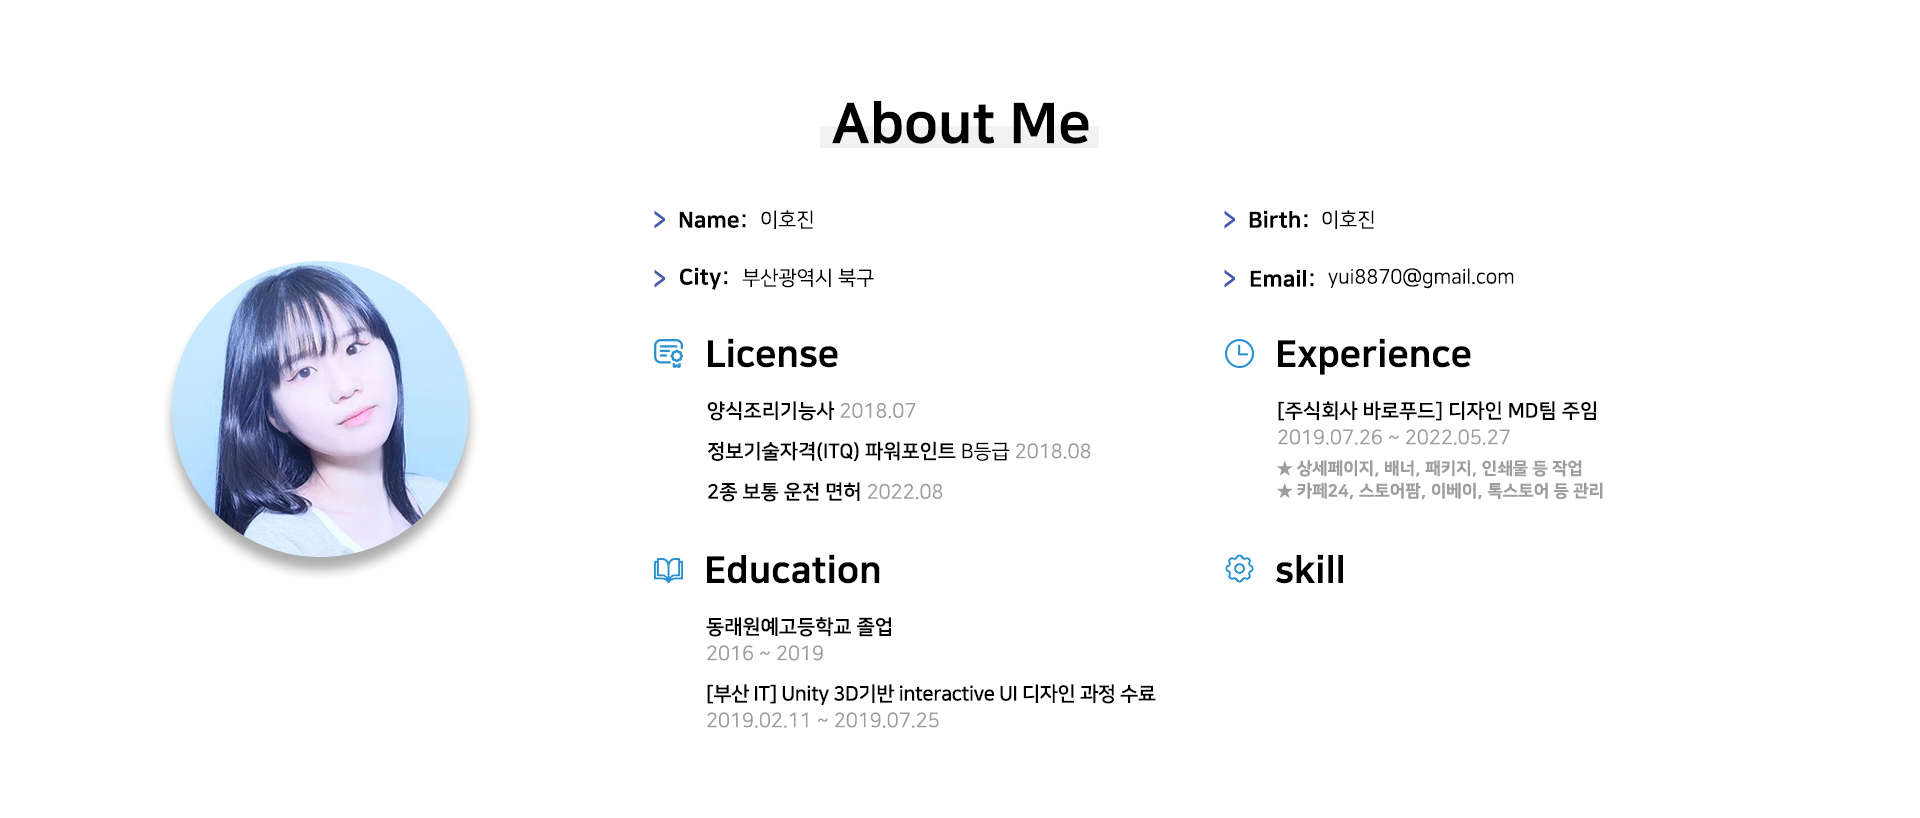
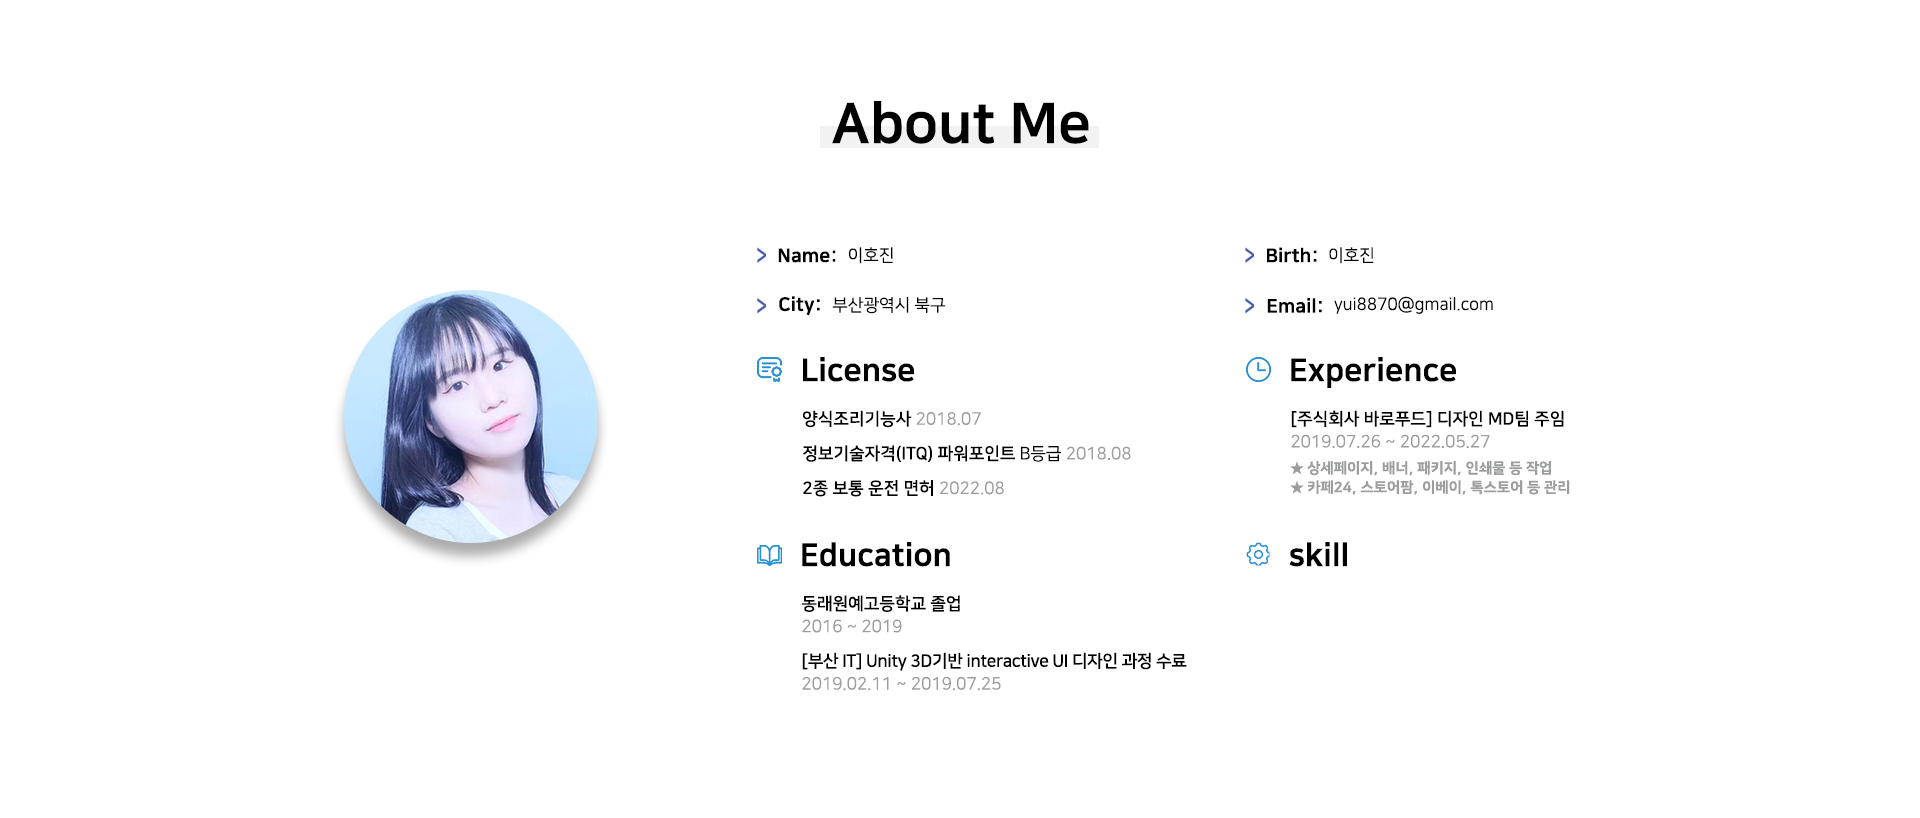
20220912

diff --git a/css/style.css b/css/style.css
@@ -168,7 +168,6 @@ a:focus {
     background: #f8f9fa;
 }
 
-
 @media (min-width: 992px) {
     .navbar {
         position: absolute;
@@ -344,7 +343,126 @@ a:focus {
 
 .mainpage-btn .btn:first-child {
     margin-right: 10px;
+    -webkit-animation: bounce-top 1.5s both;
+    animation: bounce-top 1.5s both;
 }
+
+/* ----------------------------------------------
+ * Generated by Animista on 2022-9-12 20:35:28
+ * Licensed under FreeBSD License.
+ * See http://animista.net/license for more info. 
+ * w: http://animista.net, t: @cssanimista
+ * ---------------------------------------------- */
+
+/**
+ * ----------------------------------------
+ * animation bounce-top
+ * ----------------------------------------
+ */
+ @-webkit-keyframes bounce-top {
+    0% {
+      -webkit-transform: translateY(-45px);
+              transform: translateY(-45px);
+      -webkit-animation-timing-function: ease-in;
+              animation-timing-function: ease-in;
+      opacity: 1;
+    }
+    24% {
+      opacity: 1;
+    }
+    40% {
+      -webkit-transform: translateY(-24px);
+              transform: translateY(-24px);
+      -webkit-animation-timing-function: ease-in;
+              animation-timing-function: ease-in;
+    }
+    65% {
+      -webkit-transform: translateY(-12px);
+              transform: translateY(-12px);
+      -webkit-animation-timing-function: ease-in;
+              animation-timing-function: ease-in;
+    }
+    82% {
+      -webkit-transform: translateY(-6px);
+              transform: translateY(-6px);
+      -webkit-animation-timing-function: ease-in;
+              animation-timing-function: ease-in;
+    }
+    93% {
+      -webkit-transform: translateY(-4px);
+              transform: translateY(-4px);
+      -webkit-animation-timing-function: ease-in;
+              animation-timing-function: ease-in;
+    }
+    25%,
+    55%,
+    75%,
+    87% {
+      -webkit-transform: translateY(0px);
+              transform: translateY(0px);
+      -webkit-animation-timing-function: ease-out;
+              animation-timing-function: ease-out;
+    }
+    100% {
+      -webkit-transform: translateY(0px);
+              transform: translateY(0px);
+      -webkit-animation-timing-function: ease-out;
+              animation-timing-function: ease-out;
+      opacity: 1;
+    }
+  }
+  @keyframes bounce-top {
+    0% {
+      -webkit-transform: translateY(-45px);
+              transform: translateY(-45px);
+      -webkit-animation-timing-function: ease-in;
+              animation-timing-function: ease-in;
+      opacity: 1;
+    }
+    24% {
+      opacity: 1;
+    }
+    40% {
+      -webkit-transform: translateY(-24px);
+              transform: translateY(-24px);
+      -webkit-animation-timing-function: ease-in;
+              animation-timing-function: ease-in;
+    }
+    65% {
+      -webkit-transform: translateY(-12px);
+              transform: translateY(-12px);
+      -webkit-animation-timing-function: ease-in;
+              animation-timing-function: ease-in;
+    }
+    82% {
+      -webkit-transform: translateY(-6px);
+              transform: translateY(-6px);
+      -webkit-animation-timing-function: ease-in;
+              animation-timing-function: ease-in;
+    }
+    93% {
+      -webkit-transform: translateY(-4px);
+              transform: translateY(-4px);
+      -webkit-animation-timing-function: ease-in;
+              animation-timing-function: ease-in;
+    }
+    25%,
+    55%,
+    75%,
+    87% {
+      -webkit-transform: translateY(0px);
+              transform: translateY(0px);
+      -webkit-animation-timing-function: ease-out;
+              animation-timing-function: ease-out;
+    }
+    100% {
+      -webkit-transform: translateY(0px);
+              transform: translateY(0px);
+      -webkit-animation-timing-function: ease-out;
+              animation-timing-function: ease-out;
+      opacity: 1;
+    }
+  }
 
 .mainpage-btn .btn {
     margin-top: 35px;
@@ -639,17 +757,15 @@ a:focus {
 
 .about .about-img img {
     position: relative;
-    width: 1920px;
-    height: 910px;
-    object-fit: cover;
+    height: 100%
 }
 
 .about .about-content {
     padding: 0 60px;
     position: absolute;
-    top: 655px;
-    left: 1255px;
-    width: 26%;
+    top: 580px;
+    left: 1225px;
+    width: 21%;
 }
 
 .about .about-text p {
@@ -1116,13 +1232,16 @@ a:focus {
     position: relative;
     width: 100%;
     margin: 45px 0;
-    padding: 90px 0;
-    background: #c9caca;
+    padding: 260px 0;
+    background: url(../img/banner01.jpg) left center no-repeat;
 }
 
 .banner .container {
     max-width: 750px;
     text-align: center;
+    position: absolute;
+    top: 220px;
+    left: 400px;
 }
 
 .banner .section-header {
@@ -1154,9 +1273,9 @@ a:focus {
 
 .banner .banner-text .btn {
     margin-top: 15px;
-    color: #EF233C;
-    background: #ffffff;
-    box-shadow: inset 0 0 0 50px #ffffff;
+    color: #ffffff;
+    background: #000000;
+    box-shadow: inset 0 0 0 50px #000000;
 }
 
 .banner .banner-text .btn:hover {
@@ -1712,11 +1831,11 @@ a:focus {
 .footer {
     position: relative;
     margin-top: 45px;
-    background: #3a4267;
+    background: #000000;
 }
 
 .footer .container-fluid {
-    padding: 60px 0 0 0;
+    padding: 60px 0 60px 0;
 }
 
 .footer .footer-info {
@@ -1726,16 +1845,15 @@ a:focus {
 }
 
 .footer .footer-info h2 {
-    margin-bottom: 20px;
-    font-size: 30px;
+    margin-bottom: 10px;
+    font-size: 25px;
     font-weight: 700;
     color: #ffffff;
 }
 
 .footer .footer-info h3 {
-    margin-bottom: 25px;
-    font-size: 22px;
-    font-weight: 600;
+    margin-bottom: 45px;
+    font-size: 15px;
     color: #ffffff;
 }
 
@@ -1747,8 +1865,7 @@ a:focus {
 
 .footer .footer-menu p {
     color: #ffffff;
-    font-size: 22px;
-    font-weight: 600;
+    font-size: 15px;
     line-height: 20px;
     padding: 0 15px;
     border-right: 1px solid #ffffff;
@@ -1760,7 +1877,6 @@ a:focus {
 
 .footer .footer-social {
     position: relative;
-    margin-top: 15px;
 }
 
 .footer .footer-social a {
@@ -1785,9 +1901,8 @@ a:focus {
 .footer .copyright {
     position: relative;
     text-align: center;
-    margin-top: 30px;
+    margin-top: 10px;
     padding-top: 25px;
-    padding-bottom: 25px;
 }
 
 .footer .copyright::before {
@@ -1812,6 +1927,7 @@ a:focus {
 .footer .copyright p a {
     color: #ffffff;
     font-weight: 600;
+    font-size: 15px;
 }
 
 .footer .copyright p a:hover {
@@ -1820,8 +1936,8 @@ a:focus {
 
 @media (max-width: 575.98px) {
     .footer .footer-info h2 {
-        margin-bottom: 20px;
-        font-size: 20px;
+        margin-bottom: 25px;
+        font-size: 10x;
         font-weight: 600;
     }
 

diff --git a/index.php b/index.php
@@ -24,7 +24,7 @@
         <link href="css/style.css" rel="stylesheet">
     </head>
 
-    <body data-spy="scroll" data-target=".navbar" data-offset="51">
+    <body data-spy="scroll" data-target=".navbar" data-offset="51" style="overflow-x: hidden">
         <!-- Nav Bar Start -->
         <div class="navbar navbar-expand-lg bg-light navbar-light">
             <div class="container-fluid">
@@ -210,15 +210,8 @@
         <!-- Banner Start -->
         <div class="banner wow zoomIn" data-wow-delay="0.1s">
             <div class="container">
-                <div class="section-header text-center">
-                    <p>Reasonable Price</p>
-                    <h2>Get A <span>Special</span> Price</h2>
-                </div>
                 <div class="container banner-text">
-                    <p>
-                        Lorem ipsum dolor sit amet, consectetur adipiscing elit. Phasellus nec pretium mi. Curabitur facilisis ornare velit non vulputate. Aliquam metus tortor, auctor id gravida condimentum, viverra quis sem. Curabitur non nisl nec nisi scelerisque maximus. 
-                    </p>
-                    <a class="btn">Pricing Plan</a>
+                    <a class="btn" href="img/portfolio-1.pdf">이력서 보기</a>
                 </div>
             </div>
         </div>
@@ -920,13 +913,6 @@
                         <div class="footer-menu">
                             <p>010-3***-9***</p>
                             <p>yui8870@gmail.com</p>
-                        </div>
-                        <div class="footer-social">
-                            <a href=""><i class="fab fa-twitter"></i></a>
-                            <a href=""><i class="fab fa-facebook-f"></i></a>
-                            <a href=""><i class="fab fa-youtube"></i></a>
-                            <a href=""><i class="fab fa-instagram"></i></a>
-                            <a href=""><i class="fab fa-linkedin-in"></i></a>
                         </div>
                     </div>
                 </div>
